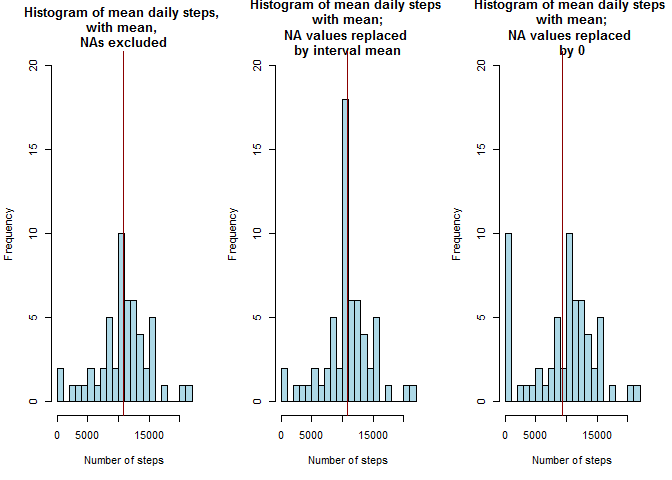
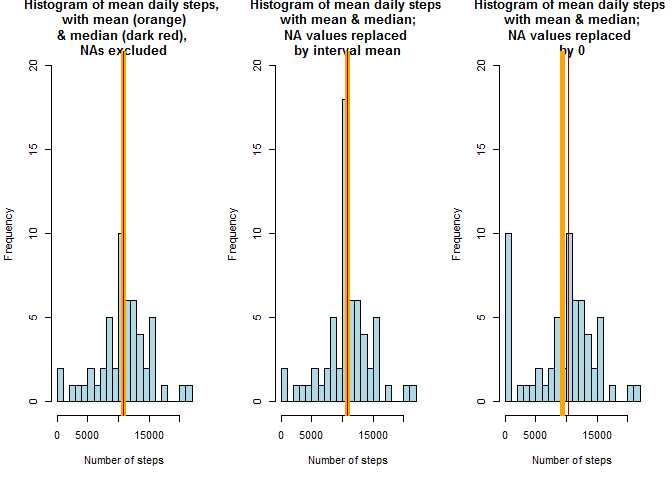
Small iteration, clean up some language and plot both mean and medians on the histograms.

diff --git a/PA1_template.html b/PA1_template.html
@@ -183,7 +183,7 @@ abline(v = cleanMeanSteps0ByDay, col = &quot;orange&quot;, lwd = 5)
 abline(v = cleanMedianSteps0ByDay, col = &quot;darkRed&quot;)</code></pre>
[1 lines of base64/hex data omitted]
 <p>As can be seen, there are more days reported in the 10000 step bin when we impute from interval means, but the mean number of steps per day is unchanged little from 10766.2 to 10766.2 in the cleaned data. The median steps per day are little changed, from 10765 to 10766.2 for the interval-mean imputed data.</p>
-<p>When we use 0-replacement for NA values, we get a noticably different mean steps value of 9354.23 and a median of 10395. In this case, it appears that many of the NA intervals contribute to additional 10000 step days, Using 0-replacement strategy, these now fall into 0-step days. This appears to be a systematic pattern of NA values and invites further investigation.</p>
+<p>When we use 0-replacement for NA values, we get a noticably different mean steps value of 9354.23 and a median of 10395. In this case, it appears that many of the NA intervals contributed to additional 10000 step days, Using 0-replacement strategy, these now fall into 0-step days. This appears to be a systematic pattern of NA values and invites further investigation.</p>
 </div>
 <div id="are-there-differences-in-activity-patterns-between-weekdays-and-weekends" class="section level2">
 <h2>Are there differences in activity patterns between weekdays and weekends?</h2>

diff --git a/PA1_template.md b/PA1_template.md
@@ -70,7 +70,7 @@ maxStepsClockTime = paste(floor(maxStepsInterval/100),maxStepsInterval%%100,sep=
 maxStepsDate = dfActivity[which.max(dfActivity$steps), "date"]
 maxStepsDay = weekdays(maxStepsDate)
 ```
-5 minute interval of maximum avarage activity (206.2 steps) occurs at 8:35.
+The 5-minute interval of maximum average (over all days) activity (206.2 steps) occurs at 8:35.
 Interestingly, the overall maximum number of steps is 806 which occurs at 6:15 on 2012-11-27, which is a Tuesday.
 
 ## Imputing missing values
@@ -132,38 +132,32 @@ The second approach is to replace NA values with 0. Using 0-replacement, we find
 #plot them side-by-side
 par("mfrow" = c(1,3))
 hist(dfActivityStepsByDay$steps, breaks = 20, col = "lightBlue", plot = T, ylim = c(0,20),
-     xlab="Number of steps", ylab="Frequency", main="Histogram of mean daily steps, \nwith mean, \nNAs excluded")
-abline(v = meanStepsByDay, col = "darkRed")
+     xlab="Number of steps", ylab="Frequency", main="Histogram of mean daily steps, \nwith mean (orange)\n& median (dark red), \nNAs excluded")
+abline(v = meanStepsByDay, col = "orange", lwd = 5)
+abline(v = medianStepsByDay, col = "darkRed")
 hist(dfCleanActivityStepsByDay$steps, breaks = 20, col = "lightBlue", plot = T, ylim = c(0,20),
-     xlab="Number of steps", ylab="Frequency", main="Histogram of mean daily steps \n with mean; \nNA values replaced \nby interval mean")
-abline(v = cleanMeanStepsByDay, col = "darkRed")
+     xlab="Number of steps", ylab="Frequency",
+     main="Histogram of mean daily steps \n with mean & median; \nNA values replaced \nby interval mean")
+abline(v = cleanMeanStepsByDay, col = "orange", lwd = 5)
+abline(v = cleanMedianStepsByDay, col = "darkRed")
 hist(dfCleanActivitySteps0ByDay$steps0, breaks = 20, col = "lightBlue", plot = T, ylim = c(0,20),
-     xlab="Number of steps", ylab="Frequency", main="Histogram of mean daily steps \n with mean; \nNA values replaced \nby 0")
-abline(v = cleanMeanSteps0ByDay, col = "darkRed")
+     xlab="Number of steps", ylab="Frequency", main="Histogram of mean daily steps \n with mean & median; \nNA values replaced \nby 0")
+abline(v = cleanMeanSteps0ByDay, col = "orange", lwd = 5)
+abline(v = cleanMedianSteps0ByDay, col = "darkRed")
 ```
 
 ![](./figures/plotClean-1.png) 
 
 As can be seen, there are more days reported in the 10000 step bin when we impute from interval means, but the mean number of steps per day is unchanged little from 10766.2 to 10766.2 in the cleaned data. The median steps per day are little changed, from 10765 to 10766.2 for the interval-mean imputed data.
 
-When we use 0-replacement for NA values, we get a noticably different mean steps value of 9354.23 and a median of 10395. In this case, it appears that all of the additional 10000 step days now fall into 0-step days. This appears to be a systematic pattern of NA values and invites further investigation.
+When we use 0-replacement for NA values, we get a noticably different mean steps value of 9354.23 and a median of 10395. In this case, it appears that many of the NA intervals contributed to additional 10000 step days, Using 0-replacement strategy, these now fall into 0-step days. This appears to be a systematic pattern of NA values and invites further investigation.
 
 ## Are there differences in activity patterns between weekdays and weekends?
 
 ```r
 dfCleanActivity$weekdays <- ifelse(weekdays(dfCleanActivity$date) %in% c("Saturday", "Sunday"), "weekend", "weekday")
 dfCleanActivity$weekdays <- factor(dfCleanActivity$weekdays)
-library(ggplot2)
-q <- qplot(interval, steps, data = dfCleanActivity, stat = "summary", geom = "line",
-           fun.y = mean, facets = weekdays ~ ., 
-           xlab = "Time of interval (24 hour clock)", ylab = "Average steps per interval",
-           main = "Comparison of weekday and weekend activity")
-print(q)
-```
 
-![](./figures/weekdayWeekendPatterns-1.png) 
-
-```r
 dfWeekActivity = split(dfCleanActivity, dfCleanActivity$weekdays)
 dfWeekdayActivityByInterval = aggregate(dfWeekActivity[[1]]$steps, 
                                         by = list(dfWeekActivity[[1]]$interval), mean)
@@ -197,5 +191,19 @@ meanWeekendPmSteps =
                                 dfWeekendActivityByInterval$interval <= 1700,
                               "steps"]),4)
 meanWeekendActivity = signif(mean(dfWeekendActivityByInterval[,"steps"]),4)
+
+library(ggplot2)
+q <- qplot(interval, steps, data = dfCleanActivity, stat = "summary", geom = "line",
+           fun.y = mean, facets = weekdays ~ ., 
+           xlab = "Time of interval (24 hour clock)", ylab = "Average steps per interval",
+           main = "Comparison of weekday and weekend activity, with means")
+
+
+dfHlines = data.frame(z = c(meanWeekdayActivity, meanWeekendActivity), weekdays = levels(dfCleanActivity$weekdays))
+q = q + geom_hline(aes(yintercept = z), data = dfHlines)
+print(q)
 ```
-There appears to be a higher peak of activity (230.4 steps) in weekday mid-mornings, at 8:35, while the weekend peak is lower (166.6 steps) and occurs later, at 9:15. However, the weekend pattern shows more consistent activity in the afternoon hours, with 83.87 mean weekend afternoon activity but only 39.8 mean afternoon activity on weekdays. Indeed, there is a higher mean level of activity on the weekend: 42.37 steps compared to the weekday mean of 35.61 steps.
+
+![](./figures/weekdayWeekendPatterns-1.png) 
+
+There appears to be a higher peak of activity (230.4 steps) in weekday mid-mornings, at 8:35, while the weekend peak is lower (166.6 steps) and occurs later, at 9:15. However, the weekend pattern shows more consistent activity in the afternoon hours, with 83.87 mean weekend afternoon activity but only 39.8 mean afternoon activity on weekdays. Indeed, there is a higher mean level of activity on the weekend: 42.37 steps compared to the weekday mean of 35.61 steps, the values of which are plotted.
